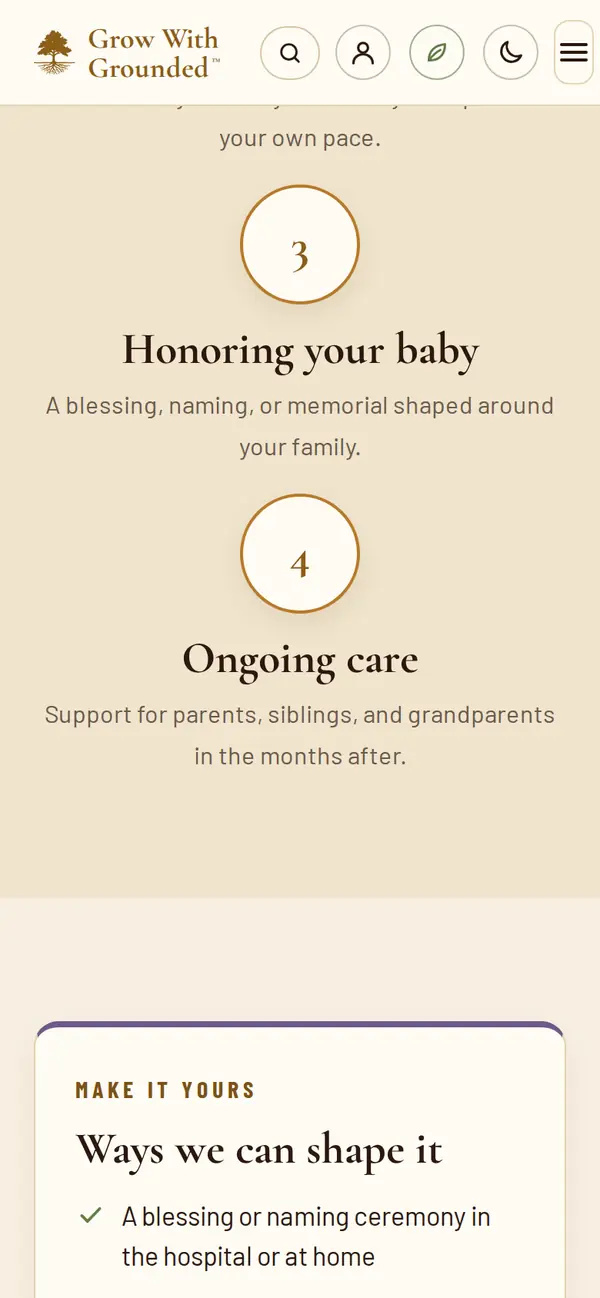
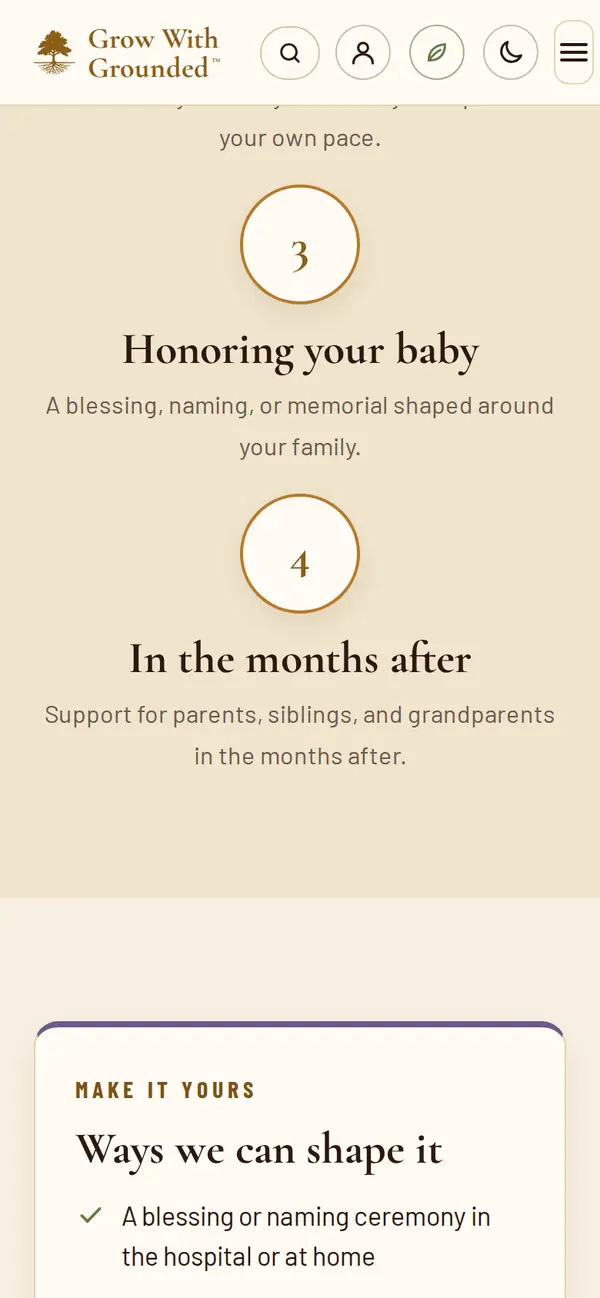
BLD 828 (in progress): People, Library, Tools videos; guide video closing no longer repeats the full guide line; Ongoing care wording
Claude-Session: https://claude.ai/code/session_01WcZgsAiFdTphwpdYq1mWZF

Changed region(s): [[0.3, 0.4931, 0.78, 0.5239], [0.21, 0.4931, 0.27, 0.5239]]

diff --git a/pregnancy-infant-loss.html b/pregnancy-infant-loss.html
@@ -49,7 +49,7 @@
     <div class="cp-intro"><p>Losing a baby is a grief the world often struggles to hold. Your love for your child is real, and so is your loss, whether you had weeks, months, or only moments together.</p><p>Chris is trained through Resolve Through Sharing to support parents, families, and caregivers through pregnancy and infant loss, and he has served as a pediatric and NICU chaplain. We come gently, go at your pace, and help you honor your baby in the ways that feel right to you.</p></div>
     <div class="eyebrow">What to expect</div>
     <h2>From first hello to the day itself.</h2>
-    <ol class="journey cp-journey"><li><span class="j-ic"><b>1</b></span><h3>Reach out</h3><p>Call or write whenever you are ready, whether in the hospital or months later.</p></li><li><span class="j-ic"><b>2</b></span><h3>Listen first</h3><p>We listen to your story and what you hope for, at your own pace.</p></li><li><span class="j-ic"><b>3</b></span><h3>Honoring your baby</h3><p>A blessing, naming, or memorial shaped around your family.</p></li><li><span class="j-ic"><b>4</b></span><h3>Ongoing care</h3><p>Support for parents, siblings, and grandparents in the months after.</p></li></ol>
+    <ol class="journey cp-journey"><li><span class="j-ic"><b>1</b></span><h3>Reach out</h3><p>Call or write whenever you are ready, whether in the hospital or months later.</p></li><li><span class="j-ic"><b>2</b></span><h3>Listen first</h3><p>We listen to your story and what you hope for, at your own pace.</p></li><li><span class="j-ic"><b>3</b></span><h3>Honoring your baby</h3><p>A blessing, naming, or memorial shaped around your family.</p></li><li><span class="j-ic"><b>4</b></span><h3>In the months after</h3><p>Support for parents, siblings, and grandparents in the months after.</p></li></ol>
   </div>
 </section>
 <section>

diff --git a/shared/gg-learn.js b/shared/gg-learn.js
@@ -478,7 +478,8 @@
     var tr = cfg.track, tdone = trackDone(tr, done), cert = !!cfg.cert && tdone && certable(tr);
     // A caller's own closing card (Grounded Stories, BLD 784): cfg.ending {eyebrow, h, sub, say, ok, buttons: [[id, label, class, href]]}.
     if (cfg.ending) { var ce = { ok: true, custom: true, count: '', next: null, cert: false }; for (var ck in cfg.ending) ce[ck] = cfg.ending[ck]; return ce; }
-    if (tr && tr.kind === 'guide') { var pr = cfg.pair || null; return { ok: true, guide: true, eyebrow: 'Here Whenever You Need It', h: 'Take all the time you need.', sub: 'The full guide has more' + (pr ? ', and there is a video ' + pr.sideName.replace(/^For/, 'for') + ' too.' : '.'), count: '', say: 'Take all the time you need. The full guide is here whenever you want it.', next: null, pair: pr, cert: false }; }
+    // A guide video's own last line already points to the full guide, so the closing only says the gentle line (Chris, October 17, 2026: it repeated). GWG BLD 828
+    if (tr && tr.kind === 'guide') { var pr = cfg.pair || null; return { ok: true, guide: true, eyebrow: 'Here Whenever You Need It', h: 'Take all the time you need.', sub: pr ? 'There is a video ' + pr.sideName.replace(/^For/, 'for') + ' too.' : '', count: '', say: 'Take all the time you need.', next: null, pair: pr, cert: false }; }
     if (tr && tr.kind === 'forguides') {
       // For Guides (W1): Open the Full Section, Watch Again, Next Video, Back to the Series. Next is the next guide in order.
       var L = tr.lessons || [], at = -1; L.forEach(function (x, j) { if (x.id === cfg.lesson.id) at = j; });
